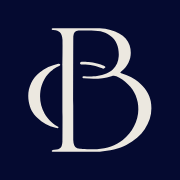
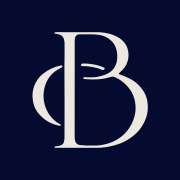
Redesign for exclusivity: Bridging Frontiers hero, Michroma type, edge glow, shorter apply flow
- Header: monogram with DELTA & BAY underneath (outlines from the brand kit)
- Hero: "Bridging Frontiers", Shenzhen · San Francisco, dates, rolling-basis line, ~20 places
- Michroma for display type; IBM Plex Mono stays for body text
- Brand edge glow fades in below the hero and drifts with scroll
- "How it works" and the countdown removed; three steps now sit in the Apply section
- Itinerary names kinds of hosts, not companies; host logo row removed
- Price shows named tiers without seat counts; FAQ updated for the new payment terms
- Bolder multi-size favicon, SVG icon and web manifest
- Application form: tap-to-choose questions (stage, supplier timing, goals, parts, teammate),
  "Not sure yet" for dates, personal website removed

The new form needs supabase/migrations/20261016120000_application_fit_questions.sql
applied before this deploys, or submissions will fail.

Changed region(s): [[0.1389, 0.1389, 0.8611, 0.8611]]

diff --git a/3d-night/index.html b/3d-night/index.html
@@ -1,5 +1,5 @@
 <!DOCTYPE html>
-<html lang="en"><head><meta charset="utf-8"><meta name="viewport" content="width=device-width,initial-scale=1,viewport-fit=cover"><meta name="theme-color" content="#050A30"><title>delta &amp; bay · Bridging the Frontiers</title><meta name="description" content="A week in Shenzhen, the hardware capital of the world, for founders, investors and technology leaders. 11–17 January 2027. By application."><meta property="og:type" content="website"><meta property="og:site_name" content="delta &amp; bay"><meta property="og:title" content="delta &amp; bay · Bridging the Frontiers"><meta property="og:description" content="A week in Shenzhen, the hardware capital of the world, for founders, investors and technology leaders. 11–17 January 2027. By application."><meta property="og:url" content="https://deltaandbay.com/"><meta property="og:image" content="https://deltaandbay.com/images/deltaandbay_og.png?v=2"><meta property="og:image:width" content="2400"><meta property="og:image:height" content="1260"><meta property="og:image:alt" content="delta &amp; bay monogram"><meta name="twitter:card" content="summary_large_image"><meta name="twitter:image" content="https://deltaandbay.com/images/deltaandbay_og.png?v=2"><link rel="canonical" href="https://deltaandbay.com/"><link rel="icon" href="/favicon.ico" sizes="32x32"><link rel="apple-touch-icon" href="/apple-touch-icon.png"><link rel="preconnect" href="https://fonts.googleapis.com"><link rel="preconnect" href="https://fonts.gstatic.com" crossorigin><link rel="preload" as="image" href="../images/deltaandbay_hero_blue_poster.jpg"><link href="https://fonts.googleapis.com/css2?family=Instrument+Serif:ital@0;1&family=IBM+Plex+Mono:wght@400;500&display=swap" rel="stylesheet">
+<html lang="en"><head><meta charset="utf-8"><meta name="viewport" content="width=device-width,initial-scale=1,viewport-fit=cover"><meta name="theme-color" content="#050A30"><title>Delta &amp; Bay · Bridging Frontiers</title><meta name="description" content="A week in Shenzhen, the hardware capital of the world, for robotics and hardware founders and investors. 11–17 January 2027. About 20 places, by application."><meta property="og:type" content="website"><meta property="og:site_name" content="Delta &amp; Bay"><meta property="og:title" content="Delta &amp; Bay · Bridging Frontiers"><meta property="og:description" content="A week in Shenzhen, the hardware capital of the world, for robotics and hardware founders and investors. 11–17 January 2027. About 20 places, by application."><meta property="og:url" content="https://deltaandbay.com/"><meta property="og:image" content="https://deltaandbay.com/images/deltaandbay_og.png?v=2"><meta property="og:image:width" content="2400"><meta property="og:image:height" content="1260"><meta property="og:image:alt" content="Delta &amp; Bay monogram"><meta name="twitter:card" content="summary_large_image"><meta name="twitter:image" content="https://deltaandbay.com/images/deltaandbay_og.png?v=2"><link rel="canonical" href="https://deltaandbay.com/"><link rel="icon" href="/favicon.ico?v=3" sizes="16x16 32x32 48x48"><link rel="icon" href="/favicon.svg?v=3" type="image/svg+xml"><link rel="apple-touch-icon" href="/apple-touch-icon.png?v=3"><link rel="manifest" href="/site.webmanifest"><link rel="preconnect" href="https://fonts.googleapis.com"><link rel="preconnect" href="https://fonts.gstatic.com" crossorigin><link rel="preload" as="image" href="../images/deltaandbay_hero_blue_poster.jpg"><link href="https://fonts.googleapis.com/css2?family=IBM+Plex+Mono:wght@400;500&family=Montserrat:wght@400&family=Michroma&display=swap" rel="stylesheet">
 <style>
 :root{--bg:#050A30;--panel:#0a1240;--text:#ECE8E0;--sub:#cfd0d8;--muted:#a6a9bd;--dim:#7d82a1;--nav:#d3d2d6;--line:rgba(236,232,224,.15);--accent:#6f8fff;--glow:#0035B1;--pad:clamp(20px,4.4vw,72px)}
 *{box-sizing:border-box}
@@ -152,25 +152,56 @@ footer .mark{font-family:'Instrument Serif',serif;font-size:22px;letter-spacing:
 @media(min-width:901px){.nav,.nav div,.nav div a{align-items:flex-start}.nav .logo{position:relative;top:2px}}
 @media(max-width:900px){.nav{left:var(--pad);right:var(--pad);display:flex;align-items:flex-start;gap:12px}.nav .logo{display:flex;align-items:flex-start;justify-content:center;height:44px;width:40px;padding-top:2px}.nav .logo img{height:40px;width:auto}.nav div{align-items:flex-start;gap:clamp(12px,3.6vw,24px)}.nav div a{align-items:flex-start;height:44px;white-space:nowrap}}
 
+/* Header lockup: monogram with DELTA & BAY underneath (outlines from the brand kit). */
+.nav .logo,.nav .logo img{height:clamp(62px,5.4vw,84px);width:auto}
+@media(max-width:900px){.nav .logo{width:auto;height:58px;padding-top:2px}.nav .logo img{height:56px}}
+.rolling{margin:0;font-size:clamp(10px,.8vw,12px);letter-spacing:.1em;color:var(--muted)}
+@media (max-aspect-ratio:1/1){.hero .name{white-space:normal;line-height:.95}.hero .rolling{align-self:stretch;text-align:center}}
+footer .mark{font-family:'Montserrat',sans-serif;font-size:13px;letter-spacing:.32em;text-transform:uppercase}
+
+/* Edge glow below the hero (brand kit: deep blue right edge, lighter blue bottom-left). Fades in after the hero and drifts with scroll. */
+.glow{position:fixed;inset:0;pointer-events:none;z-index:0;opacity:var(--glow-o,0);background:
+  radial-gradient(62vw 75vh at calc(100% + 20vw) var(--gy1,22%),rgba(0,40,194,.62),rgba(0,53,177,.26) 42%,transparent 72%),
+  radial-gradient(58vw 62vh at -18vw var(--gy2,84%),rgba(0,101,255,.34),rgba(0,101,255,.12) 45%,transparent 72%),
+  radial-gradient(34vw 34vh at calc(100% + 8vw) var(--gy3,62%),rgba(90,162,255,.18),transparent 70%)}
+section,footer{position:relative;z-index:1}
+#stage{z-index:2}
+@media (max-width:640px){.glow{background:
+  radial-gradient(95vw 60vh at calc(100% + 35vw) var(--gy1,22%),rgba(0,40,194,.6),rgba(0,53,177,.24) 45%,transparent 72%),
+  radial-gradient(90vw 50vh at -35vw var(--gy2,84%),rgba(0,101,255,.32),transparent 72%)}}
+
 /* Background video: Shenzhen Bay at night, blue treatment baked in, plays forward then back for a seamless loop. */
 .sky-video{position:absolute;inset:0;width:100%;height:100%;object-fit:cover;object-position:62% 45%;z-index:0}
 .skyline::after{z-index:1}
 @media (max-aspect-ratio:1/1){
   .sky-video{transform:scale(1.25);transform-origin:62% 70%}
 }
+
+/* Display type: Michroma for the title, tagline and headings; IBM Plex Mono for body text. */
+:root{--display:'Michroma',sans-serif}
+.name,.tag,h2,h3,summary,.facts dd,.tiers td:last-child{font-family:var(--display)}
+.hero .name{font-weight:400;letter-spacing:0;line-height:1;font-size:calc(.645 * clamp(52px,min(9.7vw,15.5vh),210px))}
+.hero .tag{text-transform:uppercase;letter-spacing:.32em;font-size:clamp(11px,1vw,15px);color:var(--sub)}
+h2{font-weight:400;font-size:calc(.645 * clamp(40px,4.6vw,68px))}
+h3,summary{font-weight:400;font-size:calc(.645 * clamp(22px,1.9vw,27px))}
+.facts dd,.tiers td:last-child{font-weight:400;font-size:17px}
+@media (max-aspect-ratio:1/1){.hero .name{font-size:calc(.73 * min(18.5vw,10vh))}.hero .tag{font-size:11px;letter-spacing:.26em}}
 </style></head>
 <body><svg width="0" height="0" style="position:absolute" aria-hidden="true"><filter id="grain"><feTurbulence type="fractalNoise" baseFrequency="0.85" numOctaves="2" stitchTiles="stitch"></feTurbulence><feColorMatrix type="saturate" values="0"></feColorMatrix></filter><filter id="whiten" color-interpolation-filters="sRGB"><feColorMatrix type="matrix" values="1.028 0 0 0 0 0 1.164 0 0 0 0 0 1.545 0 0 0 0 0 1 0"></feColorMatrix></filter></svg>
 
 <div id="stage" data-screen-label="3d Glass hand · Night">
 <div class="skyline" aria-hidden="true"><video class="sky-video" autoplay muted loop playsinline webkit-playsinline preload="auto" poster="../images/deltaandbay_hero_blue_poster.jpg" data-fallback-src="../video/deltaandbay_hero_blue_720.mp4"><source src="../video/deltaandbay_hero_blue_portrait.mp4" type="video/mp4" media="(max-aspect-ratio: 1/1)"><source src="../video/deltaandbay_hero_blue_1080.mp4" type="video/mp4"></video></div>
-<nav class="nav" aria-label="Main navigation"><a class="logo" href="#" aria-label="delta &amp; bay"><img src="../images/deltaandbay_monogram_ivory.svg" alt="delta &amp; bay" width="1167" height="1171"></a><div><a href="#trip">Intro</a><a href="#faq">FAQ</a><a class="apply-link" href="../apply/">Apply</a></div></nav>
+<nav class="nav" aria-label="Main navigation"><a class="logo" href="#" aria-label="Delta &amp; Bay"><img src="../images/deltaandbay_lockup_ivory.svg" alt="Delta &amp; Bay" width="3456" height="2099"></a><div><a href="#trip">Intro</a><a href="#faq">FAQ</a><a class="apply-link" href="../apply/">Apply</a></div></nav>
 <div class="hero">
-<h1 class="name" data-fade="0">delta &amp; bay</h1>
-<div class="tag" data-fade="400">Bridging the Frontiers</div>
+<h1 class="name" data-fade="0">Bridging Frontiers</h1>
+<div class="tag" data-fade="400">Shenzhen · San Francisco</div>
 <div class="date" data-fade="800">11–17 January 2027</div>
 <a class="cta" href="../apply/" data-fade="1100">Apply for a place</a>
+<p class="rolling" data-fade="1300">Applications reviewed on a rolling basis · ~20 places</p>
 </div>
 </div>
+
+<div class="glow" aria-hidden="true"></div>
 
 <section id="trip">
 <div class="row">
@@ -179,48 +210,27 @@ footer .mark{font-family:'Instrument Serif',serif;font-size:22px;letter-spacing:
 <p>A week in Shenzhen, the hardware capital of the world. Visit robotics companies and factories, meet local founders, and find suppliers for what you're building.</p>
 <dl class="facts">
 <div><dt>Dates</dt><dd>11–17 Jan 2027</dd></div>
-<div><dt>Group</dt><dd>25–30 people</dd></div>
+<div><dt>Group</dt><dd>~20 places</dd></div>
 <div><dt>Hotel</dt><dd>Nanshan, Shenzhen</dd></div>
 </dl>
 </div>
 </div>
 </section>
 
-<section id="how">
-<div class="row">
-<div><h2>How it works</h2></div>
-<div>
-<div class="count" id="count">
-<div><b id="cd-d">--</b><span>days</span></div>
-<div><b id="cd-h">--</b><span>hours</span></div>
-<div><b id="cd-m">--</b><span>minutes</span></div>
-<div><b id="cd-s">--</b><span>seconds</span></div>
-</div>
-<p class="small" id="count-text">Until seats open on 9 November, 9am PT</p>
-<ol class="steps">
-<li><div><h3>Apply</h3><p>Takes 5 minutes, no commitment.</p></div></li>
-<li><div><h3>Interview</h3><p>We review every application and invite applicants to a short call.</p></div></li>
-<li><div><h3>Decision</h3><p>We decide who joins based on your application and the interview, and let you know either way.</p></div></li>
-<li><div><h3>Book from 9 November, 9am PT</h3><p>Approved applicants get a booking link. Seats go in the order people pay, and the first five get founding pricing.</p></div></li>
-</ol>
-</div>
-</div>
-</section>
 
 <section id="itinerary">
 <div class="row">
-<div><h2>Itinerary</h2><p class="small" style="margin-top:20px">Hosts are confirmed in writing in November and may change with availability.</p></div>
+<div><h2>Itinerary</h2><p class="small" style="margin-top:20px">Provisional. Hosts are confirmed in writing in November, and the full itinerary goes to accepted participants.</p></div>
 <div>
 <ol class="days">
 <li><time>mon 11 jan</time><div><h3>Arrival</h3><p>Airport pickup, check-in, welcome dinner.</p></div></li>
-<li><time>tue 12 jan</time><div><h3>Autonomy and mobility</h3><p>Baidu Apollo Go robotaxi, SF Express Phoenix Wings drone base, BYD.</p></div></li>
-<li><time>wed 13 jan</time><div><h3>The robotics stack</h3><p>ZeroErr, Orbbec, Daimon Robotics. Evening meetup with local hardware founders.</p></div></li>
-<li><time>thu 14 jan</time><div><h3>Humanoids</h3><p>UBTech, EngineAI, LimX Dynamics.</p></div></li>
-<li><time>fri 15 jan</time><div><h3>From lab to global brand</h3><p>DJI, BrainCo, Seeed Studio. Dinner with local founders and investors.</p></div></li>
-<li><time>sat 16 jan</time><div><h3>Sourcing day</h3><p>Huaqiangbei walkthrough, one-on-one supplier meetings, closing dinner.</p></div></li>
-<li><time>sun 17 jan</time><div><h3>Departure</h3><p>Airport transfers.</p></div></li>
+<li><time>tue 12 jan</time><div><h3>Autonomy on the street</h3><p>A driverless robotaxi, a drone-delivery base, and a carmaker that builds its own batteries and motors.</p></div></li>
+<li><time>wed 13 jan</time><div><h3>The robotics stack</h3><p>Makers of actuators, depth cameras and tactile sensors. Evening meetup with local hardware founders.</p></div></li>
+<li><time>thu 14 jan</time><div><h3>Humanoids at work</h3><p>Humanoid companies, including robots already working in car factories.</p></div></li>
+<li><time>fri 15 jan</time><div><h3>From lab to global brand</h3><p>Shenzhen companies that went from prototype to selling worldwide. Dinner with local founders and investors.</p></div></li>
+<li><time>sat 16 jan</time><div><h3>Sourcing day</h3><p>The electronics market with a sourcing expert, supplier meetings matched to your parts list, closing dinner.</p></div></li>
+<li><time>sun 17 jan</time><div><h3>Departure</h3><p>Airport transfers, then 30 days of follow-up with suppliers.</p></div></li>
 </ol>
-<div class="hosts"><p class="hosts-label">Companies on the provisional itinerary</p><ul class="host-logos"><li><a href="https://apollogo.com/" target="_blank" rel="noopener" aria-label="Baidu Apollo Go website"><img style="--m:0.40" src="../images/hosts/apollo-go.svg" alt="Baidu Apollo Go" title="Baidu Apollo Go"></a></li><li><a href="https://www.sf-express.com/" target="_blank" rel="noopener" aria-label="SF Express website"><img style="--m:0.80" src="../images/hosts/sf-express.png" alt="SF Express" title="SF Express"></a></li><li><a href="https://www.byd.com/" target="_blank" rel="noopener" aria-label="BYD website"><img style="--m:0.500" src="../images/hosts/byd.svg" alt="BYD" title="BYD"></a></li><li><a href="https://www.zeroerr.com/" target="_blank" rel="noopener" aria-label="ZeroErr website"><img style="--m:0.485" src="../images/hosts/zeroerr.png" alt="ZeroErr" title="ZeroErr"></a></li><li><a href="https://www.orbbec.com/" target="_blank" rel="noopener" aria-label="Orbbec website"><img style="--m:0.356" src="../images/hosts/orbbec.png" alt="Orbbec" title="Orbbec"></a></li><li><a href="https://www.dmrobot.com/" target="_blank" rel="noopener" aria-label="Daimon Robotics website"><img style="--m:0.426" src="../images/hosts/daimon.svg" alt="Daimon Robotics" title="Daimon Robotics"></a></li><li><a href="https://www.ubtrobot.com/" target="_blank" rel="noopener" aria-label="UBTech website"><img style="--m:0.499" src="../images/hosts/ubtech.svg" alt="UBTech" title="UBTech"></a></li><li><a href="https://www.engineai.com.cn/" target="_blank" rel="noopener" aria-label="EngineAI website"><img style="--m:0.518" src="../images/hosts/engineai.png" alt="EngineAI" title="EngineAI"></a></li><li><a href="https://www.limxdynamics.com/en" target="_blank" rel="noopener" aria-label="LimX Dynamics website"><img style="--m:0.563" src="../images/hosts/limx.svg" alt="LimX Dynamics" title="LimX Dynamics"></a></li><li><a href="https://www.dji.com/" target="_blank" rel="noopener" aria-label="DJI website"><img style="--m:0.95" src="../images/hosts/dji.svg" alt="DJI" title="DJI"></a></li><li><a href="https://www.brainco.tech/" target="_blank" rel="noopener" aria-label="BrainCo website"><img style="--m:0.432" src="../images/hosts/brainco.png" alt="BrainCo" title="BrainCo"></a></li><li><a href="https://www.seeedstudio.com/" target="_blank" rel="noopener" aria-label="Seeed Studio website"><img style="--m:0.336" src="../images/hosts/seeed-studio.png" alt="Seeed Studio" title="Seeed Studio"></a></li></ul></div>
 </div>
 </div>
 </section>
@@ -229,12 +239,13 @@ footer .mark{font-family:'Instrument Serif',serif;font-size:22px;letter-spacing:
 <div class="row">
 <div><h2>FAQ</h2></div>
 <div>
-<details><summary>Why do I have to apply?</summary><p>The group is capped at 25–30, and we pick a mix of founders, investors and operators. Your application also tells us what you're building, so we can match visits and supplier meetings to it.</p></details>
-<details><summary>What is the interview?</summary><p>A short call about what you're building, what you want from the trip, and whether the dates and price work for you.</p></details>
-<details><summary>When do I pay?</summary><p>Nothing when you apply. If you're approved, you book when seats open on 9 November. The balance is due on 14 December.</p></details>
+<details><summary>Why do I have to apply?</summary><p>The group is about 20 people, and everyone in it should get as much from each other as from the visits. Your application also tells us what you're building, so we can match visits and supplier meetings to it.</p></details>
+<details><summary>Who are you looking for?</summary><p>Founders choosing suppliers in the next six months, and investors active in robotics and hardware. We don't take defence companies.</p></details>
+<details><summary>What is the interview?</summary><p>A 15-minute call about what you're building and what you want from the week. We decide within 2 days and let you know either way.</p></details>
+<details><summary>When do I pay?</summary><p>Nothing when you apply. If you're offered a place, pay in full within 7 days, or pay 30% within 72 hours to hold it and the rest by 30 November. If fewer than 10 people have booked by 30 November, the trip doesn't run and everyone gets a full refund.</p></details>
 <details><summary>When should I book flights?</summary><p>After we confirm the trip on 30 November. Fly into Shenzhen Bao'an (SZX) on 11 January, where we pick you up. If you fly into Hong Kong, we send directions for the border crossing.</p></details>
 <details><summary>Do I need a visa?</summary><p>It depends on your passport. Many nationalities can enter China visa-free, and US passport holders may qualify for 240-hour visa-free transit if arriving from one country and leaving for another. Check the current rules for your passport. We provide invitation letters if you need a visa.</p></details>
-<details><summary>Do I need a technical background?</summary><p>No. Founders, investors and operators all join.</p></details>
+<details><summary>Is it only for engineers?</summary><p>No. Founders and investors from every background join; you just need a reason to be in Shenzhen.</p></details>
 <details><summary>Will there be translation?</summary><p>Yes. A bilingual coordinator travels with the group and translates in every meeting.</p></details>
 <details><summary>Can I bring samples or drawings?</summary><p>Yes, and they make supplier meetings more useful. Tell us in advance so we can match suppliers.</p></details>
 </div>
@@ -246,22 +257,34 @@ footer .mark{font-family:'Instrument Serif',serif;font-size:22px;letter-spacing:
 <div><h2>Price</h2></div>
 <div>
 <table class="tiers">
-<tr><td>Per person, including tax</td><td>$8,900+</td></tr>
+<tr><td>Founding</td><td>$8,900</td></tr>
+<tr><td>Early bird</td><td>$9,900</td></tr>
+<tr><td>Regular</td><td>$11,900</td></tr>
+<tr><td>Final call</td><td>$12,900</td></tr>
 </table>
+<p class="small">Per person, including tax. Your price is fixed when you're offered a place.</p>
 <p><strong>Included:</strong> six nights in a single hotel room, group lunches and dinners, all visits, ground transport and airport transfers, a bilingual coordinator and translation, supplier matching before the trip.</p>
 <p><strong>Not included:</strong> flights, visa fees, travel insurance (required), extra nights.</p>
 </div>
 </div>
 </section>
 
-<section>
+<section id="apply">
 <div class="row">
 <div><h2>Apply for a place</h2></div>
-<div><a class="cta" href="../apply/">Apply for a place</a></div>
+<div>
+<ol class="steps">
+<li><div><h3>Apply</h3><p>About 5 minutes. We read every application.</p></div></li>
+<li><div><h3>15-minute call</h3><p>What you're building and what you want from the week.</p></div></li>
+<li><div><h3>Decision within 2 days</h3><p>We let you know either way.</p></div></li>
+</ol>
+<a class="cta" href="../apply/" style="margin-top:32px">Apply for a place</a>
+<p class="small" style="margin-top:14px">Applications reviewed on a rolling basis.</p>
+</div>
 </div>
 </section>
 
-<footer><span class="mark">delta &amp; bay</span><a href="../privacy/">Privacy</a></footer>
+<footer><span class="mark">Delta &amp; Bay</span><a href="../privacy/">Privacy</a></footer>
 
 <svg class="grain" aria-hidden="true"><rect width="100%" height="100%" filter="url(#grain)"></rect></svg>
 <script>
@@ -269,25 +292,19 @@ if(!matchMedia('(prefers-reduced-motion: reduce)').matches){
 document.querySelectorAll('[data-drift]').forEach(function(el,i){el.animate([{transform:'scale(1.04) translate(0,0)'},{transform:'scale(1.07) translate('+(i%2?-1.2:1.2)+'%,-0.8%)'}],{duration:22000+i*1500,direction:'alternate',iterations:Infinity,easing:'ease-in-out'});});
 document.querySelectorAll('[data-fade]').forEach(function(el){el.animate([{opacity:0,transform:'translateY(8px)',filter:'blur(4px)'},{opacity:1,transform:'none',filter:'blur(0)'}],{duration:1800,delay:+el.dataset.fade||0,easing:'cubic-bezier(.2,.7,.2,1)',fill:'backwards'});});
 }
-// Seats open 9 November 2026, 9am PT (PST, UTC-8) = 17:00 UTC.
+// Edge glow: fades in after the hero; the glows drift in opposite directions as you scroll.
 (function(){
-var open=Date.UTC(2026,10,9,17,0,0);
-var ids=['cd-d','cd-h','cd-m','cd-s'].map(function(id){return document.getElementById(id);});
-function pad(n){return n<10?'0'+n:''+n;}
-function tick(){
-  var s=Math.max(0,Math.floor((open-Date.now())/1000));
-  if(s===0){
-    document.getElementById('count').style.display='none';
-    document.getElementById('count-text').textContent='Seats are open. Approved applicants have their booking link.';
-    return;
-  }
-  ids[0].textContent=Math.floor(s/86400);
-  ids[1].textContent=pad(Math.floor(s%86400/3600));
-  ids[2].textContent=pad(Math.floor(s%3600/60));
-  ids[3].textContent=pad(s%60);
-  setTimeout(tick,1000);
+var g=document.querySelector('.glow'),still=matchMedia('(prefers-reduced-motion: reduce)').matches,queued=false;
+function paint(){
+  queued=false;
+  var y=scrollY,h=innerHeight,max=Math.max(1,document.documentElement.scrollHeight-h),p=still?0.4:y/max;
+  g.style.setProperty('--glow-o',Math.min(1,Math.max(0,(y-h*0.35)/(h*0.45))).toFixed(3));
+  g.style.setProperty('--gy1',(14+56*p).toFixed(1)+'%');
+  g.style.setProperty('--gy2',(88-56*p).toFixed(1)+'%');
+  g.style.setProperty('--gy3',(40+36*p).toFixed(1)+'%');
 }
-tick();
+addEventListener('scroll',function(){if(!queued){queued=true;requestAnimationFrame(paint);}},{passive:true});
+addEventListener('resize',paint);paint();
 })();
 </script><script>
 (function(){

diff --git a/apply/index.html b/apply/index.html
@@ -1,5 +1,5 @@
 <!DOCTYPE html>
-<html lang="en"><head><meta charset="utf-8"><meta name="viewport" content="width=device-width,initial-scale=1,viewport-fit=cover"><meta name="theme-color" content="#050A30"><title>Apply · delta &amp; bay</title><meta name="description" content="Apply for a place on delta &amp; bay, a seven-day robotics and hardware delegation to Shenzhen, 11–17 January 2027."><meta property="og:type" content="website"><meta property="og:site_name" content="delta &amp; bay"><meta property="og:title" content="Apply · delta &amp; bay"><meta property="og:description" content="Apply for a place on delta &amp; bay, a seven-day robotics and hardware delegation to Shenzhen, 11–17 January 2027."><meta property="og:url" content="https://deltaandbay.com/apply/"><meta property="og:image" content="https://deltaandbay.com/images/deltaandbay_og.png?v=2"><meta property="og:image:width" content="2400"><meta property="og:image:height" content="1260"><meta property="og:image:alt" content="delta &amp; bay monogram"><meta name="twitter:card" content="summary_large_image"><meta name="twitter:image" content="https://deltaandbay.com/images/deltaandbay_og.png?v=2"><link rel="canonical" href="https://deltaandbay.com/apply/"><link rel="icon" href="/favicon.ico" sizes="32x32"><link rel="apple-touch-icon" href="/apple-touch-icon.png"><link rel="preconnect" href="https://fonts.googleapis.com"><link rel="preconnect" href="https://fonts.gstatic.com" crossorigin><link href="https://fonts.googleapis.com/css2?family=Instrument+Serif:ital@0;1&family=IBM+Plex+Mono:wght@400;500&display=swap" rel="stylesheet">
+<html lang="en"><head><meta charset="utf-8"><meta name="viewport" content="width=device-width,initial-scale=1,viewport-fit=cover"><meta name="theme-color" content="#050A30"><title>Apply · Delta &amp; Bay</title><meta name="description" content="Apply for a place on Delta &amp; Bay: a week in Shenzhen for robotics and hardware founders and investors, 11–17 January 2027. About 20 places."><meta property="og:type" content="website"><meta property="og:site_name" content="Delta &amp; Bay"><meta property="og:title" content="Apply · Delta &amp; Bay"><meta property="og:description" content="Apply for a place on Delta &amp; Bay: a week in Shenzhen for robotics and hardware founders and investors, 11–17 January 2027. About 20 places."><meta property="og:url" content="https://deltaandbay.com/apply/"><meta property="og:image" content="https://deltaandbay.com/images/deltaandbay_og.png?v=2"><meta property="og:image:width" content="2400"><meta property="og:image:height" content="1260"><meta property="og:image:alt" content="Delta &amp; Bay monogram"><meta name="twitter:card" content="summary_large_image"><meta name="twitter:image" content="https://deltaandbay.com/images/deltaandbay_og.png?v=2"><link rel="canonical" href="https://deltaandbay.com/apply/"><link rel="icon" href="/favicon.ico?v=3" sizes="16x16 32x32 48x48"><link rel="icon" href="/favicon.svg?v=3" type="image/svg+xml"><link rel="apple-touch-icon" href="/apple-touch-icon.png?v=3"><link rel="manifest" href="/site.webmanifest"><link rel="preconnect" href="https://fonts.googleapis.com"><link rel="preconnect" href="https://fonts.gstatic.com" crossorigin><link href="https://fonts.googleapis.com/css2?family=IBM+Plex+Mono:wght@400;500&family=Michroma&display=swap" rel="stylesheet">
 <style>
 :root{--bg:#050A30;--panel:#0a1240;--line:rgba(236,232,224,.28);--line-strong:rgba(236,232,224,.7);--text:#ECE8E0;--sub:#cfd0d8;--muted:#a6a9bd;--accent:#6f8fff;--error:#ff8a8a;--pad:clamp(20px,4.4vw,72px)}
 *{box-sizing:border-box}
@@ -60,20 +60,35 @@ body{background:var(--bg)}
 .privacy-note{grid-column:1/-1;font-size:11.5px;line-height:1.6;color:var(--muted);margin:4px 0 0}.privacy-note a{color:var(--sub)}
 /* Match the logo top to the visible navigation text, with a full tap target. */
 header{align-items:flex-start}header .mark{position:relative;top:2px}header .back{display:flex;align-items:flex-start;min-height:44px;line-height:1}
+.chips{border:0;margin:0;padding:0;min-width:0}
+.chips legend{font-size:12px;line-height:1.5;letter-spacing:.04em;color:var(--sub);padding:0;margin-bottom:12px}
+.chips legend b{color:var(--accent);font-weight:400}.chips legend span{color:var(--muted);margin-left:8px}
+.chip-row{display:flex;flex-wrap:wrap;gap:10px}
+.chip-row label{position:relative;cursor:pointer}
+.chip-row input{position:absolute;opacity:0;width:1px;height:1px}
+.chip-row span{display:block;padding:10px 14px;border:1px solid var(--line);font-size:13px;letter-spacing:.02em;color:var(--sub);transition:border-color .2s,background .2s,color .2s}
+.chip-row input:checked+span{background:var(--text);border-color:var(--text);color:var(--bg)}
+.chip-row input:focus-visible+span{outline:2px solid var(--accent);outline-offset:2px}
+.chips.invalid .chip-row span{border-color:var(--error)}
+.mark{height:56px}
+/* Display type: Michroma, matching the homepage. */
+h1,.done h2{font-family:'Michroma',sans-serif;font-weight:400;letter-spacing:0}
+h1{font-size:min(54px,calc((100vw - 2 * var(--pad)) / 10.6));line-height:1.05}
+.done h2{font-size:clamp(28px,3.8vw,48px);line-height:1.1}
 </style></head>
 <body>
 <svg width="0" height="0" style="position:absolute" aria-hidden="true"><filter id="grain"><feTurbulence type="fractalNoise" baseFrequency="0.85" numOctaves="2" stitchTiles="stitch"></feTurbulence><feColorMatrix type="saturate" values="0"></feColorMatrix></filter><filter id="whiten" color-interpolation-filters="sRGB"><feColorMatrix type="matrix" values="1.028 0 0 0 0 0 1.164 0 0 0 0 0 1.545 0 0 0 0 0 1 0"></feColorMatrix></filter></svg>
 <img class="hand" src="../images/deltaandbay_pic3.jpg" alt="" width="828" height="1019">
-<header><a class="mark" href="../" aria-label="delta &amp; bay home"><img src="../images/deltaandbay_monogram_ivory.svg" alt="delta &amp; bay" width="1167" height="1171"></a><a class="back" href="../">Back</a></header>
+<header><a class="mark" href="../" aria-label="Delta &amp; Bay home"><img src="../images/deltaandbay_lockup_ivory.svg" alt="Delta &amp; Bay" width="3456" height="2099"></a><a class="back" href="../">Back</a></header>
 <main>
 <div class="form-wrap">
 <div class="eyebrow">Shenzhen · 11–17 January 2027</div>
 <h1>Apply for a place</h1>
 <p class="lede">Applying doesn't commit you to anything.</p>
 <ol class="next">
-<li>We review your application and invite you to a short interview call.</li>
-<li>We decide based on your application and the interview.</li>
-<li>If approved, you get a booking link on 9 November, 9am PT.</li>
+<li>About 5 minutes. Applications are reviewed on a rolling basis, and we read every one.</li>
+<li>If it looks like a fit, we invite you to a 15-minute call.</li>
+<li>We decide within 2 days of the call and let you know either way.</li>
 </ol>
 <!-- Submissions go to Supabase project deltaandbay (kmbhcqnkbiddppzbubxp), table public.applications. The publishable key is public by design; RLS allows insert only. -->
 <form id="apply" novalidate>
@@ -83,13 +98,32 @@ header{align-items:flex-start}header .mark{position:relative;top:2px}header .bac
   <div class="field"><label for="based">Where are you based? <b>*</b></label><input id="based" name="based" placeholder="City, country" required><span class="err">Please tell us where you're based.</span></div>
   <div class="field"><label for="linkedin">LinkedIn profile <b>*</b></label><input id="linkedin" name="linkedin" type="text" inputmode="url" autocapitalize="off" autocorrect="off" spellcheck="false" placeholder="linkedin.com/in/yourname" required><span class="err">Please enter your LinkedIn profile link (linkedin.com/in/…).</span></div>
   <div class="field"><label for="x">X profile (optional)</label><input id="x" name="x" type="text" inputmode="url" autocapitalize="off" autocorrect="off" spellcheck="false" placeholder="x.com/yourhandle or leave empty"><span class="err">Please enter a valid X profile (x.com/yourhandle or @yourhandle), or leave it empty.</span></div>
-  <div class="field full"><label for="website">Personal website</label><input id="website" name="website" type="text" inputmode="url" autocapitalize="off" autocorrect="off" spellcheck="false" placeholder="Optional"><span class="err">Please enter a valid website address, or leave it empty.</span></div>
   <div class="field"><label for="role">How would you describe yourself? <b>*</b></label><select id="role" name="role" required><option value="" disabled selected>Select one</option><option>Founder</option><option>Investor</option><option>Engineer or researcher</option><option>Product, operations or sourcing lead</option><option>Other</option></select><span class="err">Please choose one.</span></div>
   <div class="field"><label for="area">What area are you working in? <b>*</b></label><select id="area" name="area" required><option value="" disabled selected>Select one</option><option>Robotics and automation</option><option>Physical AI and data</option><option>Consumer hardware and wearables</option><option>Energy and climate hardware</option><option>Medtech, BCI and neurotech</option><option>Semiconductors and sensors</option><option>Other</option></select><span class="err">Please choose one.</span></div>
+  <div class="field"><label for="stage">Where is your product? <b>*</b></label><select id="stage" name="stage" required><option value="" disabled selected>Select one</option><option>Idea or research</option><option>Prototype</option><option>First production batch</option><option>Shipping product</option><option>I'm an investor</option></select><span class="err">Please choose one.</span></div>
+  <div class="field"><label for="timing">When do you need to pick suppliers? <b>*</b></label><select id="timing" name="timing" required><option value="" disabled selected>Select one</option><option>Within 3 months</option><option>In 3–6 months</option><option>In 6–12 months</option><option>Not right now</option></select><span class="err">Please choose one.</span></div>
+  <fieldset class="field full chips" id="wants-field"><legend>What do you want from Shenzhen? <b>*</b> <span>Pick any</span></legend><div class="chip-row">
+    <label><input type="checkbox" name="wants" value="Suppliers for my parts"><span>Suppliers for my parts</span></label>
+    <label><input type="checkbox" name="wants" value="Factory visits"><span>Factory visits</span></label>
+    <label><input type="checkbox" name="wants" value="Chinese robotics companies"><span>Chinese robotics companies</span></label>
+    <label><input type="checkbox" name="wants" value="Robots deployed in the real world"><span>Robots deployed in the real world</span></label>
+    <label><input type="checkbox" name="wants" value="Local founders and investors"><span>Local founders and investors</span></label>
+    <label><input type="checkbox" name="wants" value="The electronics market"><span>The electronics market</span></label>
+  </div><span class="err">Please pick at least one.</span></fieldset>
+  <fieldset class="field full chips"><legend>Parts you're sourcing <span>Optional, pick any</span></legend><div class="chip-row">
+    <label><input type="checkbox" name="parts" value="Actuators and motors"><span>Actuators and motors</span></label>
+    <label><input type="checkbox" name="parts" value="PCBs and electronics"><span>PCBs and electronics</span></label>
+    <label><input type="checkbox" name="parts" value="Machining and metal parts"><span>Machining and metal parts</span></label>
+    <label><input type="checkbox" name="parts" value="Cameras and sensors"><span>Cameras and sensors</span></label>
+    <label><input type="checkbox" name="parts" value="Tactile sensing and gloves"><span>Tactile sensing and gloves</span></label>
+    <label><input type="checkbox" name="parts" value="Batteries and power"><span>Batteries and power</span></label>
+    <label><input type="checkbox" name="parts" value="Other"><span>Other</span></label>
+  </div></fieldset>
   <div class="field full"><label for="building">In one or two sentences, what are you building? <b>*</b></label><textarea id="building" name="building" placeholder="If you're an investor, what you invest in." required minlength="10"></textarea><span class="err">Please write a sentence or two.</span></div>
   <div class="field full"><label for="why">What do you want to leave Shenzhen with? <b>*</b></label><textarea id="why" name="why" placeholder="For example: quotes for an actuator, a contract manufacturer for 1,000 units, a QA partner." required minlength="10"></textarea><span class="err">Please write a sentence or two.</span></div>
-  <div class="field"><label for="dates">Can you join for the full trip, 11–17 January 2027? <b>*</b></label><select id="dates" name="dates" required><option value="" disabled selected>Select one</option><option>Yes</option><option>No</option></select><span class="err">Please choose one.</span></div>
-  <div class="field"><label for="heard">How did you hear about us?</label><input id="heard" name="heard" placeholder="Optional"><span class="err">Please use 500 characters or fewer.</span></div>
+  <div class="field"><label for="dates">Can you join for the full trip, 11–17 January 2027? <b>*</b></label><select id="dates" name="dates" required><option value="" disabled selected>Select one</option><option>Yes</option><option>Not sure yet</option><option>No</option></select><span class="err">Please choose one.</span></div>
+  <div class="field"><label for="teammate">Would a teammate come too?</label><select id="teammate" name="teammate"><option value="">Optional</option><option>Yes</option><option>Maybe</option><option>No</option></select><span class="err">Please choose one.</span></div>
+  <div class="field full"><label for="heard">Who referred you, or how did you hear about us?</label><input id="heard" name="heard" placeholder="Optional"><span class="err">Please use 500 characters or fewer.</span></div>
   <div class="submit-row"><button type="submit">Submit application</button><span class="note">Applying doesn't commit you to anything</span></div>
   <p class="privacy-note"><a href="../privacy/">Privacy</a></p>
   <p class="send-err" role="alert">Something went wrong sending your application. Please try again in a moment.</p>
@@ -98,8 +132,8 @@ header{align-items:flex-start}header .mark{position:relative;top:2px}header .bac
 <div class="done" aria-live="polite">
 <div class="eyebrow">Application received</div>
 <h2>Thank you, <span id="first"></span>.</h2>
-<p>We'll email you to set up a short interview call. After the interview we decide and let you know. If you're approved, your booking link arrives on 9 November at 9am PT.</p>
-<a href="../#how">How it works</a>
+<p>We review applications on a rolling basis. If it looks like a fit, we'll email you to set up a 15-minute call, and we decide within 2 days of the call either way.</p>
+<a href="../#apply">Back to the trip</a>
 </div>
 </main>
 <svg class="grain" aria-hidden="true"><rect width="100%" height="100%" filter="url(#grain)"></rect></svg>
@@ -109,28 +143,34 @@ var form=document.getElementById('apply');
 function stripUrl(raw){var v=(raw||'').trim().replace(/[?#].*$/,'');if(v&&!/^https?:\/\//i.test(v))v='https://'+v;return v;}
 function normLinkedIn(raw){var m=stripUrl(raw).match(/^https?:\/\/(?:[a-z]{2,3}\.|www\.)?linkedin\.com\/in\/([A-Za-z0-9_%.-]{3,100})\/?$/i);return m?'https://www.linkedin.com/in/'+m[1]:null;}
 function normX(raw){var t=(raw||'').trim();var h=t.match(/^@([A-Za-z0-9_]{1,15})$/);if(h)return 'https://x.com/'+h[1];var m=stripUrl(t).match(/^https?:\/\/(?:www\.|mobile\.)?(?:x|twitter)\.com\/([A-Za-z0-9_]{1,15})\/?$/i);if(!m||/^(home|i|search|explore|settings|messages|notifications|login|signup|intent|share)$/i.test(m[1]))return null;return 'https://x.com/'+m[1];}
-function normWebsite(raw){var t=(raw||'').trim();if(!t||/\s/.test(t))return null;if(!/^https?:\/\//i.test(t))t='https://'+t;try{var u=new URL(t);if(!/^https?:$/.test(u.protocol)||u.username||u.password||!/^([a-z0-9-]+\.)+[a-z]{2,}$/i.test(u.hostname))return null;return u.href.length<=300?u.href:null;}catch(e){return null;}}
-var LINKS={linkedin:normLinkedIn,x:normX,website:normWebsite};
+var LINKS={linkedin:normLinkedIn,x:normX};
+// Tap-to-choose groups: wants needs at least one pick, parts is optional.
+var GROUPS={wants:true,parts:false};
+function picked(n){var l=form.elements[n];if(!l)return [];if(l.length===undefined)l=[l];return Array.prototype.filter.call(l,function(e){return e.checked;}).map(function(e){return e.value;});}
+function checkGroups(){var first=null;Object.keys(GROUPS).forEach(function(n){if(!GROUPS[n])return;var ok=picked(n).length>0;var f=document.getElementById(n+'-field');if(f)f.classList.toggle('invalid',!ok);if(!ok&&!first)first=n;});return first;}
 var LIMITS={name:200,email:320,company:200,based:200,building:4000,why:4000,heard:500};
 function check(el){
   if(LINKS[el.name]){var t=el.value.trim();var ok=t?!!LINKS[el.name](t):!el.required;el.closest('.field').classList.toggle('invalid',!ok);return ok;}var f=el.closest('.field');var v=el.value.trim();var tooLong=LIMITS[el.name]&&v.length>LIMITS[el.name];var ok=(!el.required||v!=='')&&el.checkValidity()&&!(el.minLength>0&&v.length<el.minLength)&&!tooLong;var msg=f.querySelector('.err');if(msg){if(!msg.dataset.defaultText)msg.dataset.defaultText=msg.textContent;msg.textContent=tooLong?'Please use '+LIMITS[el.name]+' characters or fewer.':msg.dataset.defaultText;}f.classList.toggle('invalid',!ok);return ok;}
-form.querySelectorAll('input,select,textarea').forEach(function(el){
+form.querySelectorAll('input:not([type=checkbox]),select,textarea').forEach(function(el){
   if(LIMITS[el.name])el.maxLength=LIMITS[el.name];
   el.addEventListener('blur',function(){if(el.value)check(el);});
   el.addEventListener('input',function(){if(el.closest('.field').classList.contains('invalid'))check(el);});
 });
 var SUPABASE_URL='https://kmbhcqnkbiddppzbubxp.supabase.co';
 var SUPABASE_KEY='sb_publishable_6uwyoaqph00b9QVKEu-nVA_Dxbhs-Wm';
-var FIELDS=['name','email','company','based','linkedin','x','website','role','area','building','why','dates','heard'];
+var FIELDS=['name','email','company','based','linkedin','x','role','area','stage','timing','building','why','teammate','dates','heard'];
 form.addEventListener('submit',function(e){
   e.preventDefault();
   var bad=null;
-  form.querySelectorAll('input,select,textarea').forEach(function(el){if(!check(el)&&!bad)bad=el;});
+  form.querySelectorAll('input:not([type=checkbox]),select,textarea').forEach(function(el){if(!check(el)&&!bad)bad=el;});
+  var badGroup=checkGroups();
   if(bad){bad.focus();return;}
+  if(badGroup){var g=document.getElementById(badGroup+'-field');if(g&&g.scrollIntoView)g.scrollIntoView({block:'center'});return;}
   var btn=form.querySelector('button'),err=form.querySelector('.send-err');
   var row={};
   FIELDS.forEach(function(k){var v=form.elements[k].value.trim();row[k]=v||null;});
-  row.linkedin=normLinkedIn(form.elements.linkedin.value);row.x=normX(form.elements.x.value);row.website=normWebsite(form.elements.website.value);
+  row.linkedin=normLinkedIn(form.elements.linkedin.value);row.x=normX(form.elements.x.value);
+  Object.keys(GROUPS).forEach(function(n){var v=picked(n);row[n]=v.length?v:null;});
   btn.disabled=true;btn.textContent='Sending…';err.classList.remove('show');
   fetch(SUPABASE_URL+'/rest/v1/applications',{
     method:'POST',

diff --git a/CLAUDE.md b/CLAUDE.md
@@ -4,17 +4,17 @@ Read `docs/CHAT_HANDOFF.md` first for current shared context, production decisio
 
 This folder is the home for all work on the delta and bay project (Shenzhen robotics trip landing page). Make every change here.
 
-- Brand: **delta & bay**, lowercase, with an ampersand, following the latest user request. Use `deltaandbay` for folders, repos, file names and URLs. Formerly delta and bay, bay^2 (baysquared), before that SOMMER.
-- Current tagline: **Bridging the Frontiers**. Navigation, section headings and buttons use sentence case; the brand wordmark remains lowercase.
+- Brand: **Delta & Bay**, capitalised, with an ampersand (Shawn, 16 Oct 2026; replaces the earlier lowercase request). Use `deltaandbay` for folders, repos, file names and URLs. Formerly delta and bay, bay^2 (baysquared), before that SOMMER.
+- Hero title: **Bridging Frontiers**, with "Shenzhen · San Francisco", the dates, **Apply for a place** and "Applications reviewed on a rolling basis · ~20 places" under it. The name sits under the monogram top-left as the brand-kit lockup (`images/deltaandbay_lockup_ivory.svg`, outlines from Shawn's LinkedIn logo; never retype it). Navigation, section headings and buttons use sentence case.
 - Plain static HTML, no framework, no build. Keep it that way unless asked.
 - Original style directions: `1a` Space, `2f` Sepia, `2h` Threshold, `3d` Glass hand, plus `3d-ochre`, `3d-clay`, `3d-night`. See README.md.
-- Live direction is `3d-night`: Shawn's brand colours (Prussian blue `#050A30`, ivory `#ECE8E0`), his vector monogram top-left (`images/deltaandbay_monogram_ivory.svg`, from his brand kit, no frame), Instrument Serif lowercase wordmark. `apply/` matches it.
+- Live direction is `3d-night`: Shawn's brand colours (Prussian blue `#050A30`, ivory `#ECE8E0`), the monogram-and-name lockup top-left (`images/deltaandbay_lockup_ivory.svg`). Display type is **Michroma** (hero title, tagline in spaced capitals, headings, FAQ questions, prices; chosen by Shawn 16 Oct 2026); body text stays IBM Plex Mono. A fixed edge glow (brand-kit blues) fades in below the hero and drifts with scroll. `apply/` matches it.
 - `apply/` saves to Supabase project `deltaandbay` (ref `kmbhcqnkbiddppzbubxp`, us-west-1), table `public.applications`, via the REST API with the publishable key. RLS: public can insert only (no read/update/delete); read applications in the Supabase dashboard. Schema in `supabase/migrations/`. If you add or rename a form field, update the table, the column grant and the `FIELDS` list in the page script together. Fields follow the applicant questions in the planning doc; the rest of those questions are asked on the interview call.
 - Images are shared in `images/` as `deltaandbay_pic*.jpg`; pages reference them as `../images/<file>`. More source photos are in the user's Downloads folder, still named `sommer_pic1..23.jpg`.
-- `3d-night` is a scrolling page: full-screen hero, then sections (trip, how it works with countdown, itinerary, FAQ, price). Keep it to key facts only. Nav links jump to `#trip`, `#faq` (Price is not in the nav). Price section sits after the FAQ, says "including tax", and is not in the trip facts row; `Apply` goes to `../apply/`. Countdown targets 9 Nov 2026, 9am PT (17:00 UTC).
+- `3d-night` is a scrolling page: full-screen hero, then sections (trip, itinerary, FAQ, price, apply). Keep it to key facts only. No countdown. The itinerary names kinds of hosts, never company names or logos (the full itinerary goes to accepted participants). Price shows named tiers (Founding, Early bird, Regular, Final call) and never seat counts. The Apply section holds the three steps: apply, 15-minute call, decision within 2 days. Nav links jump to `#trip`, `#faq`; `Apply` goes to `../apply/`.
 - Trip: 11–17 January 2027. Content source is the Google Doc "Make it out of the hood".
 - Deploy target: Vercel project `deltaandbay` (domain deltaandbay.com), auto-deployed from GitHub `joeljussila/deltaandbay` main. `/` is rewritten to the live direction in `vercel.json` (currently `3d-night`); the picker is at `/styles/`.
 
 
 
-- Live pages use solid Prussian blue (#050A30), without decorative background gradients or video blend overlays. The video and its poster are color-graded blue directly in their files.
+- Live pages use Prussian blue (#050A30) with no video blend overlays. The one gradient is the brand edge glow below the hero, which Shawn asked for on 16 Oct 2026; don't add others. The video and its poster are color-graded blue directly in their files.
